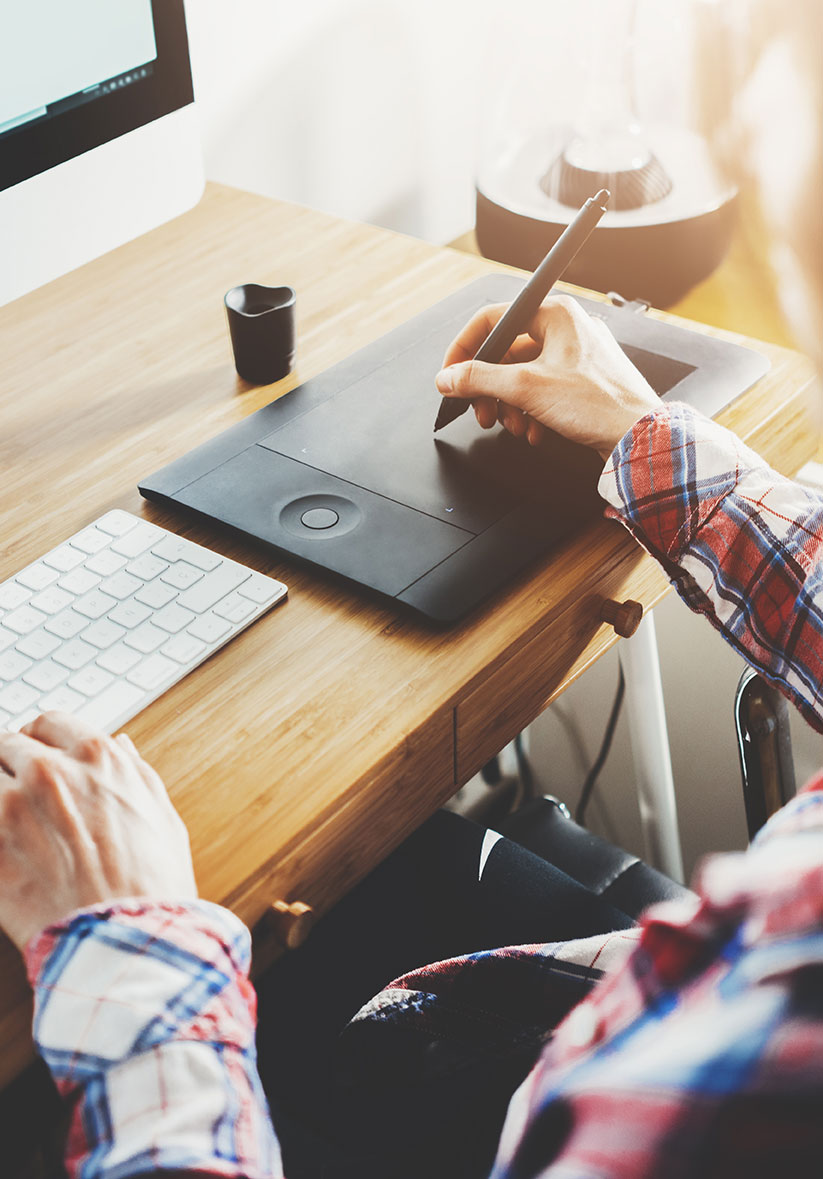
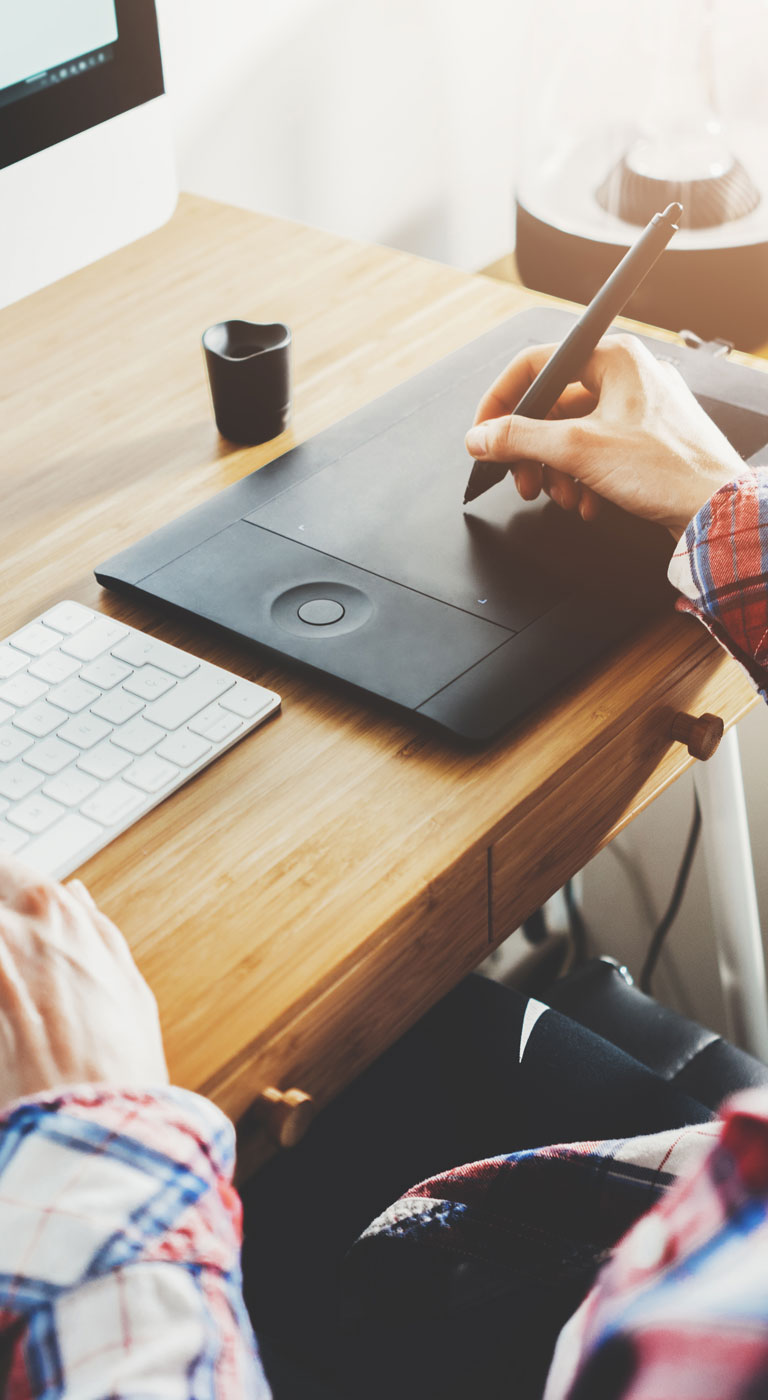
메인 비주얼 크기 수정

diff --git a/src/assets/css/mainvisual.component.compact.css b/src/assets/css/mainvisual.component.compact.css
@@ -18,7 +18,11 @@ html .btn { border: 0px; text-transform: uppercase; }
 
 @media (min-width: 1200px) { .carousel-inner .item img { width: auto; } }
 
-.carousel-inner .item { height: 100%; overflow: hidden; }
+.carousel-inner, .carousel-inner .item { height: 100vh; max-height: 600px; overflow: hidden; }
+
+@media (min-width: 768px) { .carousel-inner, .carousel-inner .item { max-height: 1280px; } }
+
+@media (min-width: 992px) { .carousel-inner, .carousel-inner .item { max-height: auto; } }
 
 .carousel-caption { bottom: auto; top: 0rem; left: 0rem; height: 100%; width: 100%; padding: 0rem; background: url(./../image/transparent_gray.png); }
 

diff --git a/src/assets/css/copyright.component.compact.css b/src/assets/css/copyright.component.compact.css
@@ -55,4 +55,6 @@ html .btn { border: 0px; text-transform: uppercase; }
 
 .copyright_section > div > section i.mail:after { font-family: 'FontAwesome'; font-size: 2rem; font-style: normal; content: ""; color: #ffffff; margin-top: 1rem; }
 
-.copyright_section .width-full { width: 100%; height: 5rem; line-height: 5rem; font-size: 1.3rem; text-align: center; background: #10162e; }
+.copyright_section .width-full { width: 100%; height: 5rem; line-height: 5rem; font-size: 1rem; text-align: center; background: #10162e; }
+
+@media screen and (min-width: 992px) { .copyright_section .width-full { font-size: 1.3rem; } }

diff --git a/src/assets/js/mainvisual.js b/src/assets/js/mainvisual.js
@@ -1,11 +1,11 @@
 $(document).ready(function(){
   $('.carousel').carousel();
-  var w_height = $(window).height();
+/*  var w_height = $(window).height();
   $(".carousel-inner").height(w_height);
   $('.carousel').on('slid.bs.carousel', function () {
-  });
+  });*/
 });
 $(window).resize(function(){
-  var w_height = $(window).height();
-  $(".carousel-inner").height(w_height);
+/*  var w_height = $(window).height();
+  $(".carousel-inner").height(w_height);*/
 });

diff --git a/src/assets/css/mainvisual.component.sass b/src/assets/css/mainvisual.component.sass
@@ -24,9 +24,15 @@
 @media (min-width: $screen-lg-min)
   .carousel-inner .item img
     width: auto
+.carousel-inner,
 .carousel-inner .item
-  height: 100%
+  height: 100vh
+  max-height: 600px
   overflow: hidden
+  @media (min-width: $screen-sm-min)
+    max-height: 1280px
+  @media (min-width: $screen-md-min)
+    max-height: auto
 .carousel-caption
   bottom: auto
   top: 0rem

diff --git a/src/assets/css/copyright.component.sass b/src/assets/css/copyright.component.sass
@@ -91,6 +91,8 @@
     width: 100%
     height: $copyright-copy-height
     line-height: $copyright-copy-height
-    font-size: 1.3rem
+    font-size: 1rem
     text-align: center
     background: darken($brand-primary,30%)
+    @media screen and (min-width: $screen-md-min)
+      font-size: 1.3rem
